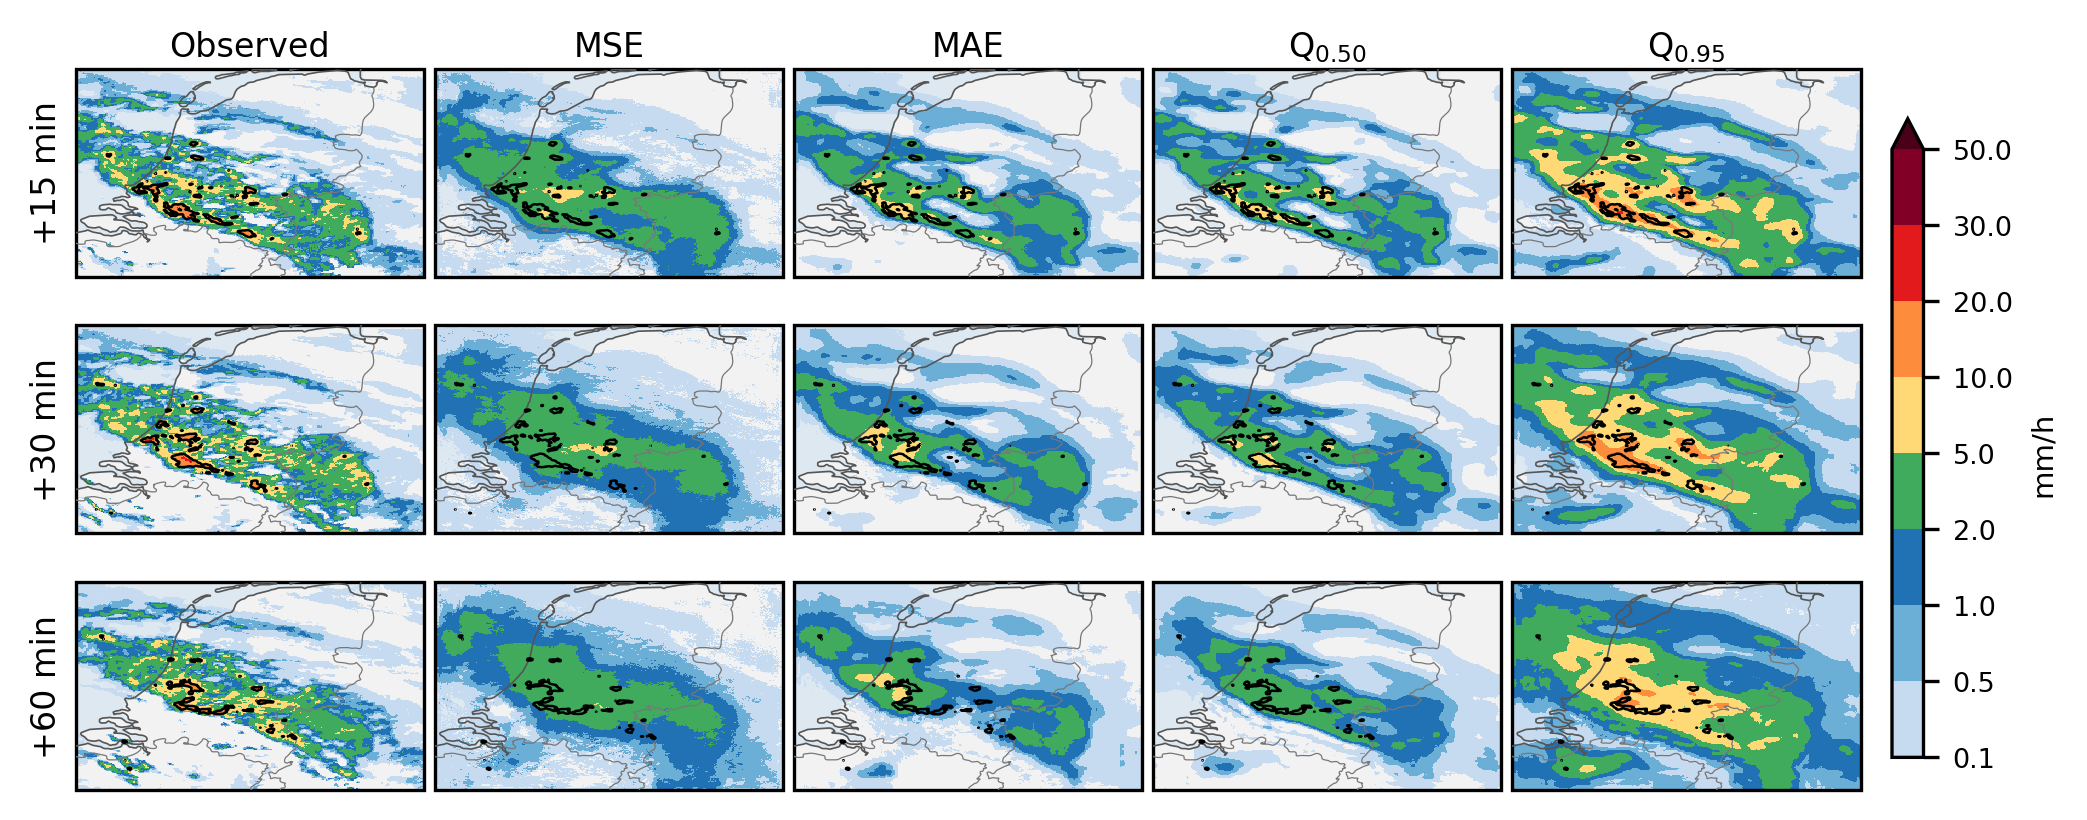
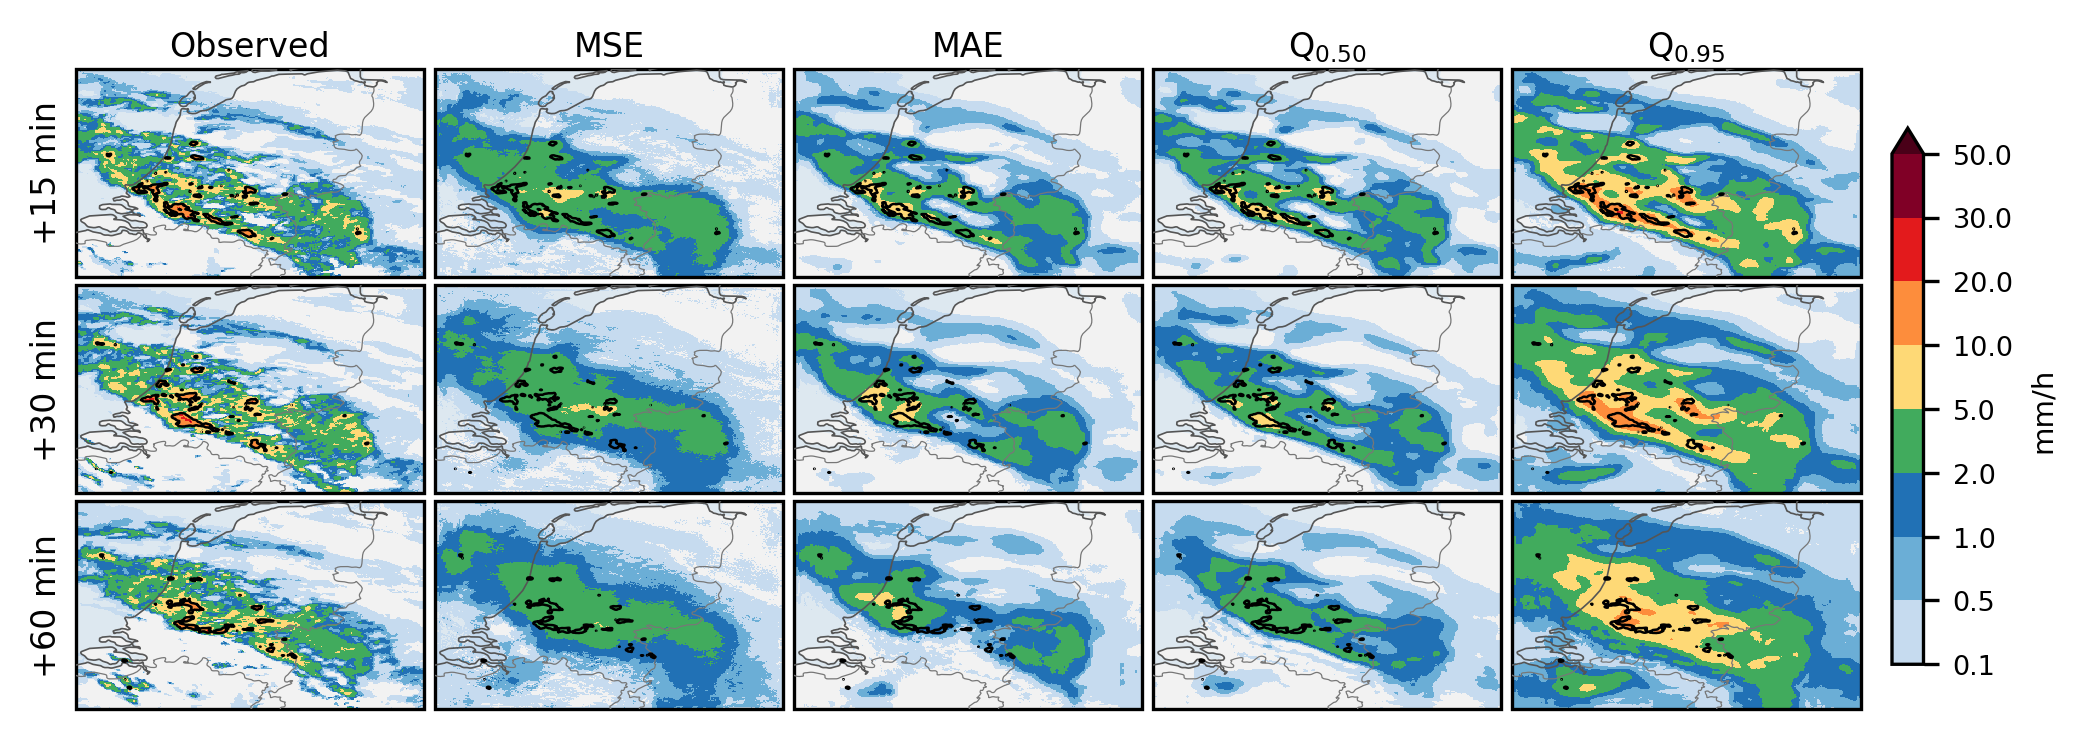
Size figure to panel aspect to remove vertical whitespace between rows

diff --git a/qualitative_figure.py b/qualitative_figure.py
@@ -365,9 +365,12 @@ def render_sample(ds, models, sample, args, out_dir, quick=False):
         nr, nc = len(rows), len(cols)
 
     aspect = (ext[3] - ext[2]) / (ext[1] - ext[0])  # panel height / width (PlateCarree, as in the paper)
-    pw = args.width / (nc + 0.35)
+    # Size the figure so the grid cells match the panel aspect exactly; otherwise
+    # fixed-aspect (cartopy) axes shrink inside taller cells and leave vertical gaps.
+    L_, R_, B_, WS, HS, TOP_IN = 0.05, 0.90, 0.02, 0.03, 0.04, 0.3
+    pw = args.width * (R_ - L_) / (nc + WS * (nc - 1))
     ph = pw * aspect
-    fig_h = ph * nr + 0.55
+    fig_h = (ph * (nr + HS * (nr - 1)) + TOP_IN) / (1 - B_)
 
     kw = {"subplot_kw": {"projection": ccrs.PlateCarree()}} if use_cartopy else {}
     fig, axes = plt.subplots(nr, nc, figsize=(args.width, fig_h), squeeze=False, **kw)
@@ -423,7 +426,7 @@ def render_sample(ds, models, sample, args, out_dir, quick=False):
     for i, t in enumerate(left):
         axes[i, 0].set_ylabel(t, fontsize=fs, labelpad=3)
 
-    fig.subplots_adjust(left=0.05, right=0.90, bottom=0.02, top=1 - 0.3 / fig_h, wspace=0.03, hspace=0.04)
+    fig.subplots_adjust(left=L_, right=R_, bottom=B_, top=1 - TOP_IN / fig_h, wspace=WS, hspace=HS)
     cax = fig.add_axes([0.915, 0.08, 0.015, 0.84 - 0.3 / fig_h])
     cb = fig.colorbar(im, cax=cax, extend="max", ticks=RAIN_BOUNDS)
     cb.ax.tick_params(labelsize=fs - 1.5)
